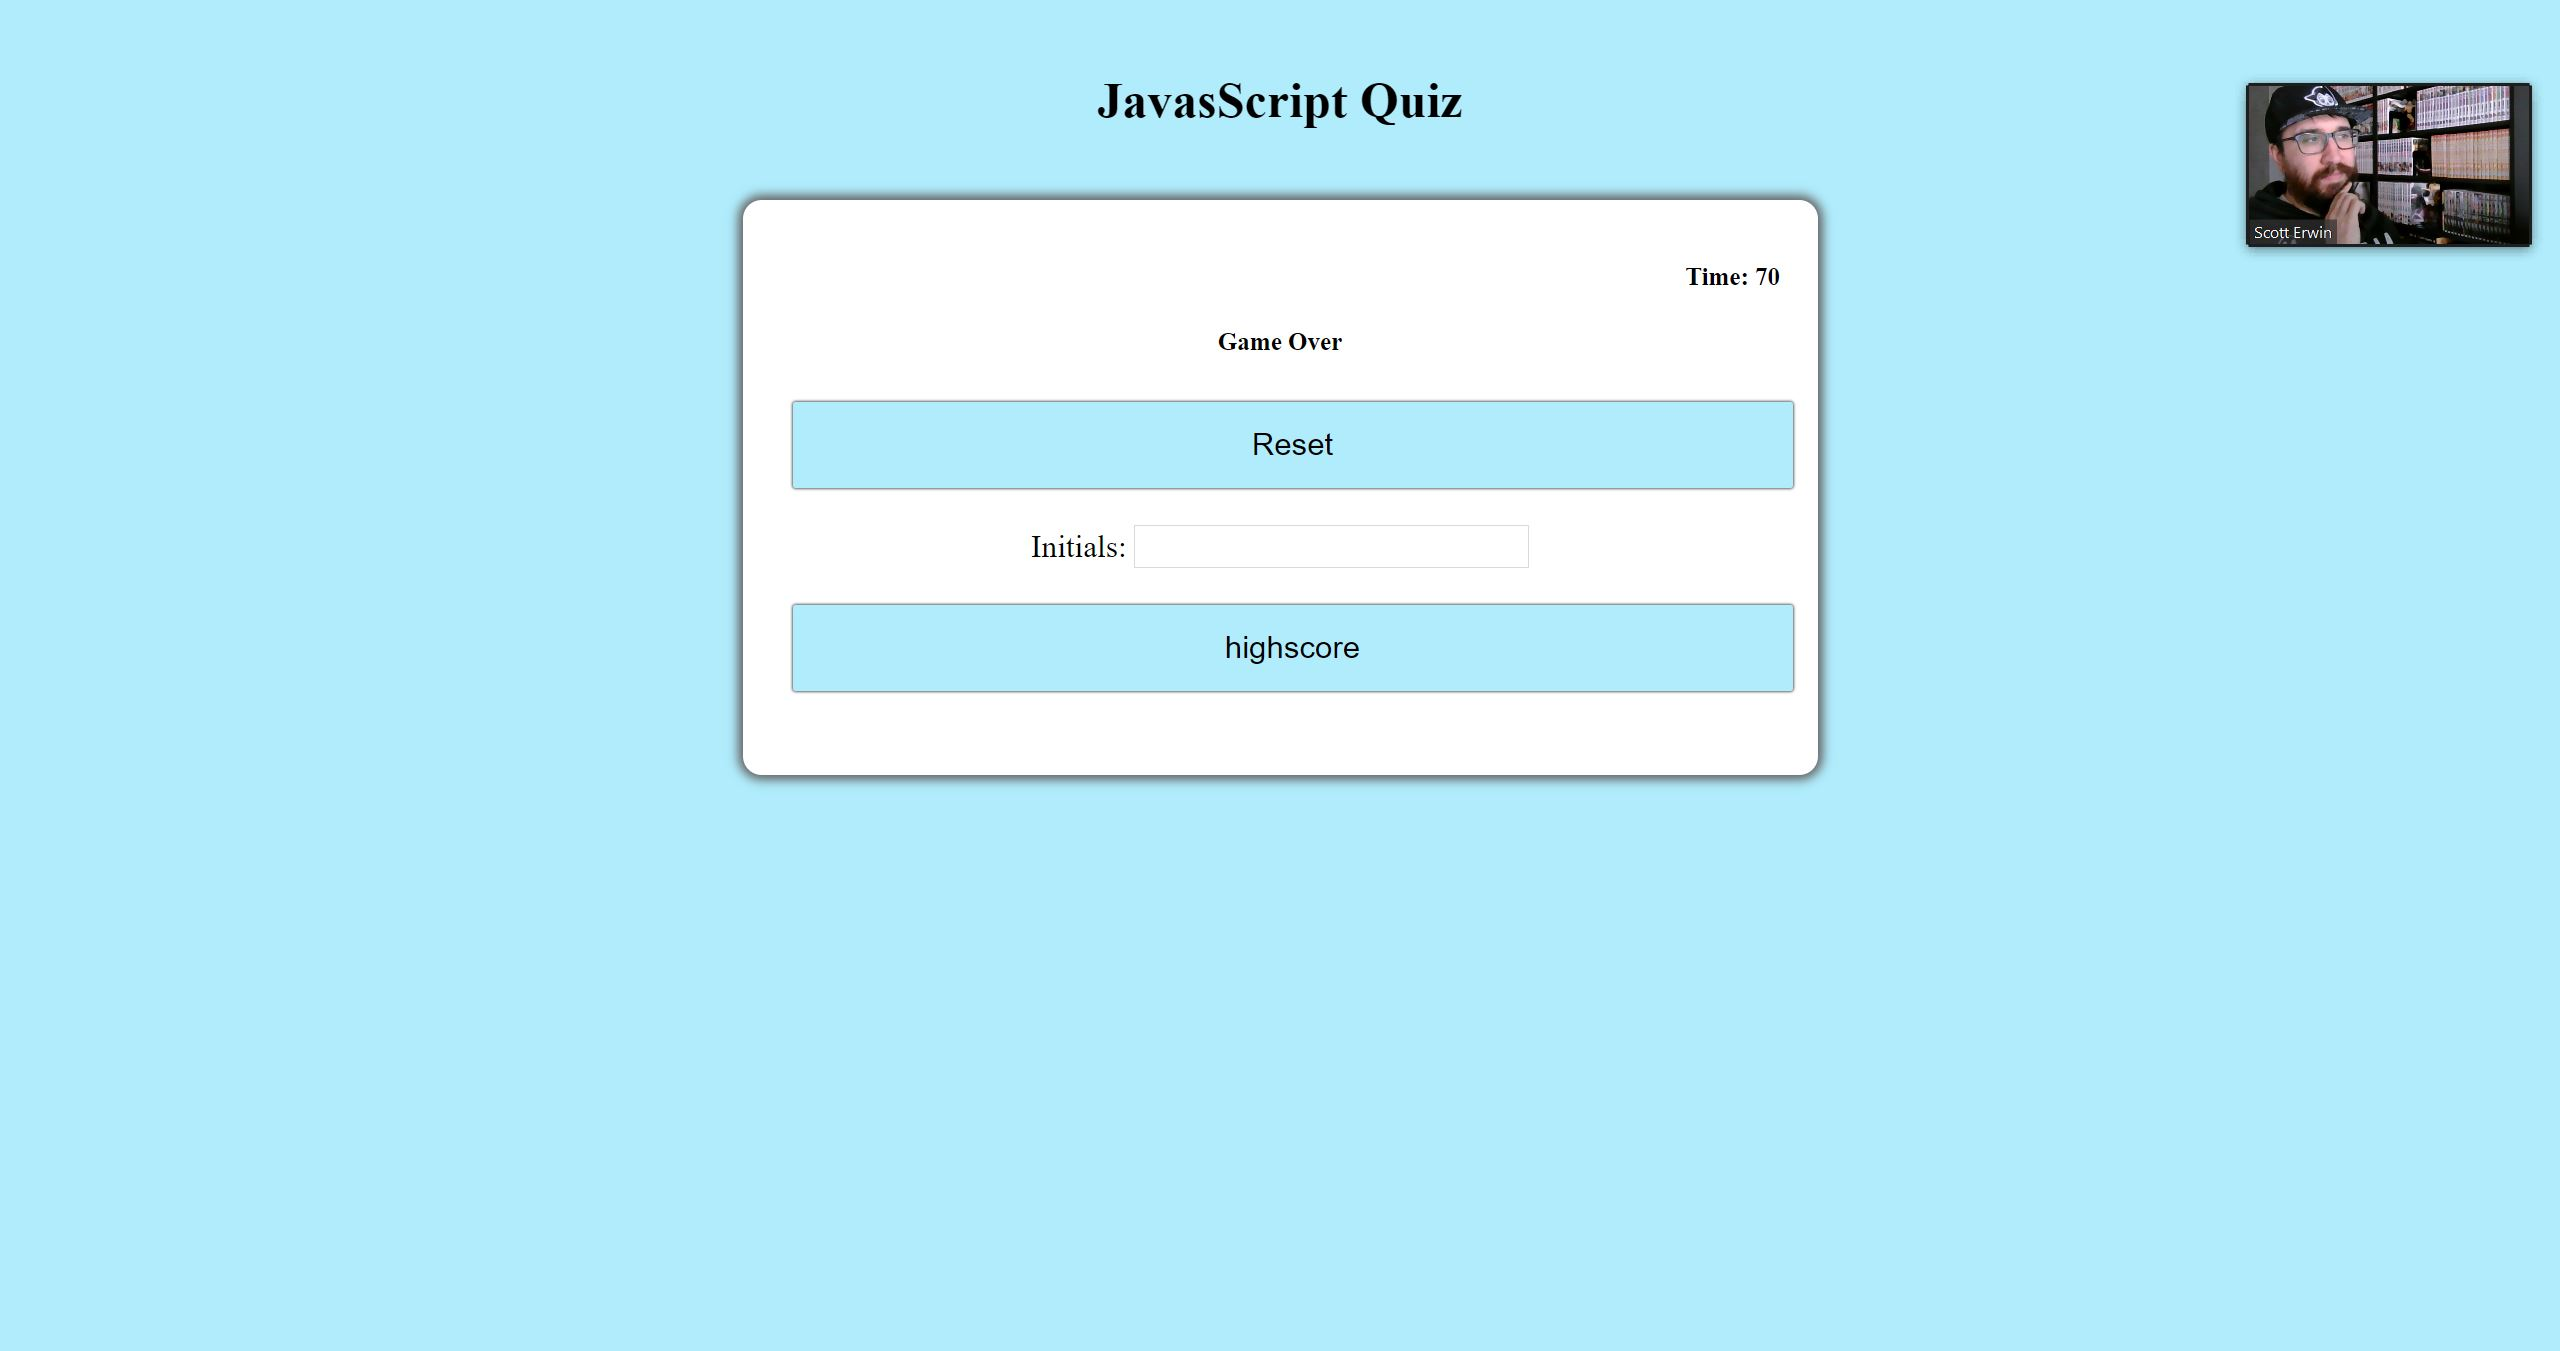
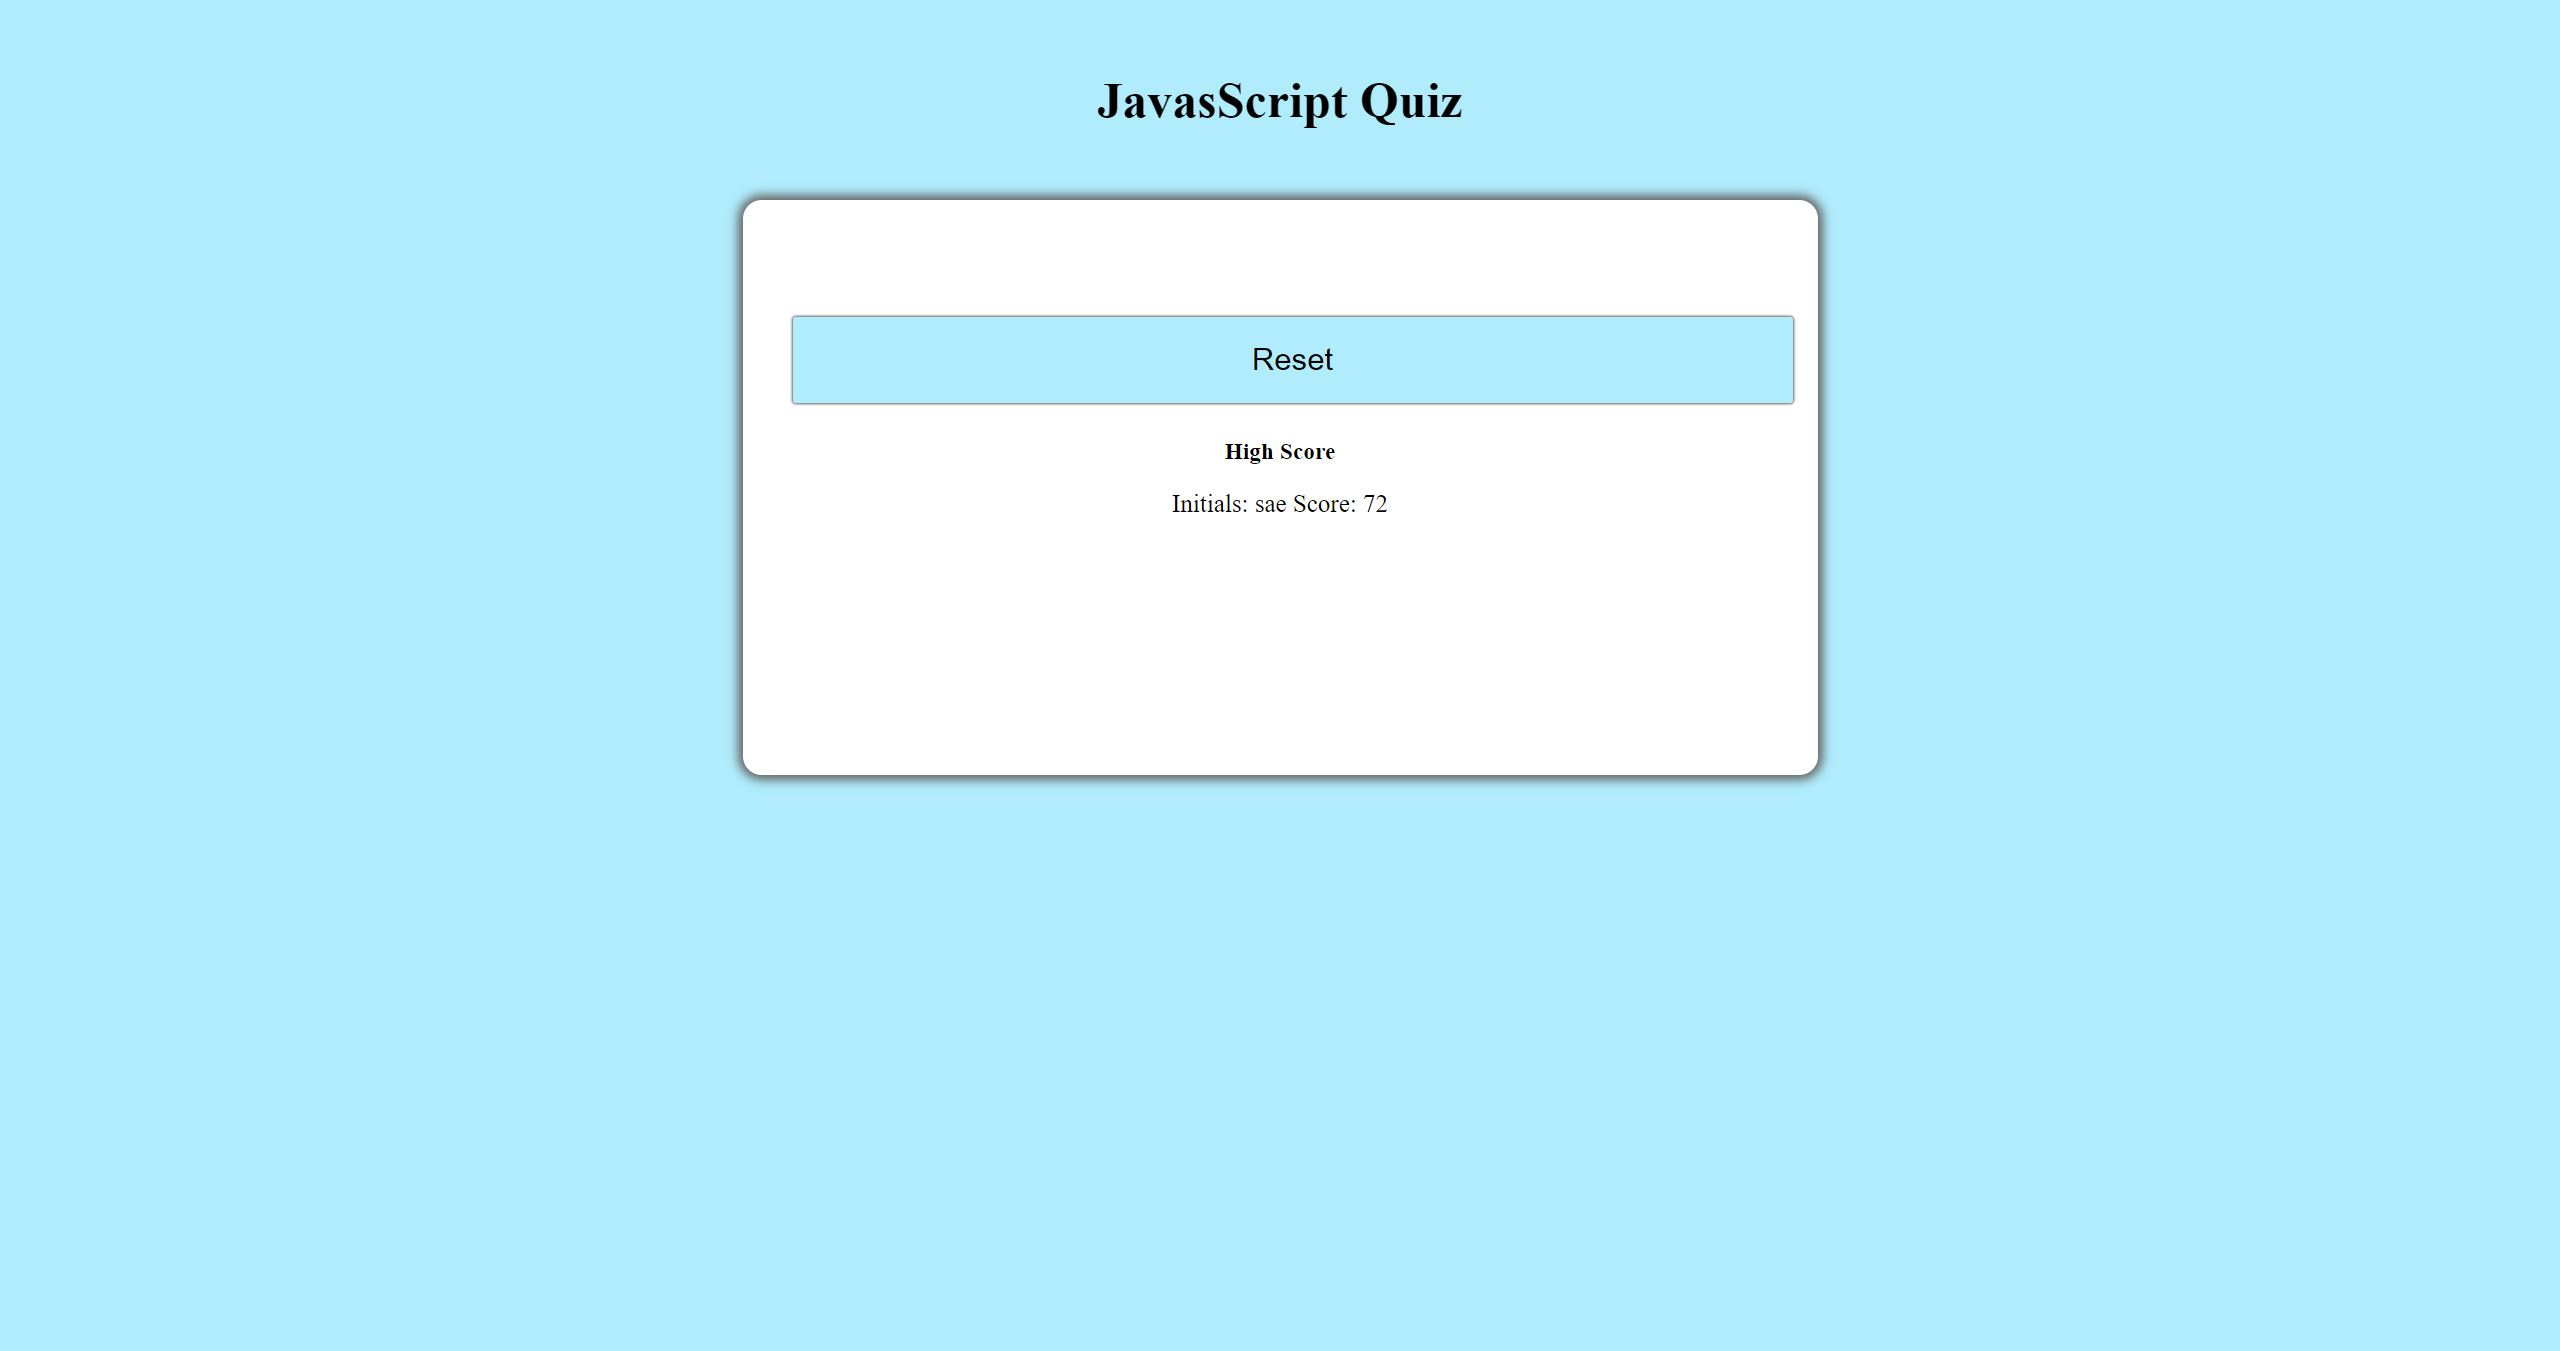
updated images in readme and cleaned up code

Changed region(s): [[0.2812, 0.1865, 0.7188, 0.4041], [0.2812, 0.4041, 0.7188, 0.5285], [0.875, 0.0622, 1.0, 0.1865]]

diff --git a/js/questions.js b/js/questions.js
@@ -84,8 +84,8 @@ let scores = document.getElementById("scores")
 const initialsEl = $('#initials');
 const highscoreBtn = $('#highscores');
 const highscorelist = $('#highscorelist');
-let scoreSaved;
-let secondsSaved;
+let scoreSaved = [];
+let secondsSaved = [];
 // invocation of funtion eleId by x
 function eleId(x) {
     return document.getElementById(x);
@@ -190,7 +190,7 @@ function textbox() {
 
 function storeTime(secondsSaved) {
     localStorage.setItem("time", JSON.stringify(secondsLeft));
-    secondsSaved = JSON.parse(localStorage.getItem("time"));
+    secondsSaved += JSON.parse(localStorage.getItem("time"));
     timeEl = secondsSaved;
     return secondsSaved;
 }
@@ -198,7 +198,7 @@ function storeTime(secondsSaved) {
 function storeinitials(scoreSaved) {
     initialsText = $('#initials').val();
     localStorage.setItem("initials", JSON.stringify(initialsText));
-    scoreSaved = JSON.parse(localStorage.getItem("initials"));
+    scoreSaved += JSON.parse(localStorage.getItem("initials"));
     return scoreSaved;
 }
 
@@ -210,19 +210,11 @@ $("#scores").submit(function (e) {
     }
     else {
         storeinitials();
-        clearout();
+        eleId("question").innerHTML = "";
         scores.style.display = "none";
         document.getElementById("time").style.display = "none";
         $("#highscorelist").append(`<h3>High Score</h3>`);
-        $("#highscorelist").append(`<p>Initials: ${storeinitials(scoreSaved)} Score: ${storeTime(secondsSaved)}</p>`);
+        $("#highscorelist").append(`<p class="highscore">Initials: ${storeinitials(scoreSaved)} Score: ${storeTime(secondsSaved)}</p>`);
         
     }
 });
-
-
-
-// highscoreslist.innerHTML = scoreSaved
-//     .map(score => {
-//         return `<p class="high-scores"> ${scoredSaved}`
-//     })
-//     .join("");

diff --git a/index.html b/index.html
@@ -13,7 +13,7 @@
       <h1 id="quizTitle">JavasScript Quiz</h1>
     </header>
     <section>
-      <h3 id="time" ></h1>
+      <h3 id="time"></h1>
       <h2 id="question" class="question"></h2>
       <div id="option" class="option"></div>
       <form id="scores">

diff --git a/css/style.css b/css/style.css
@@ -72,3 +72,7 @@ input[type="text"] {
 #scores {
   display: none;
 }
+
+.highscore {
+  font-size: 20px;
+}
